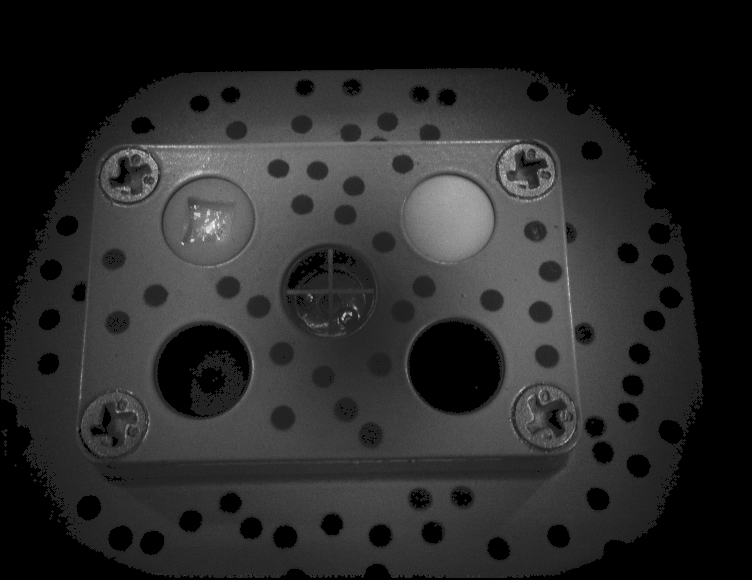
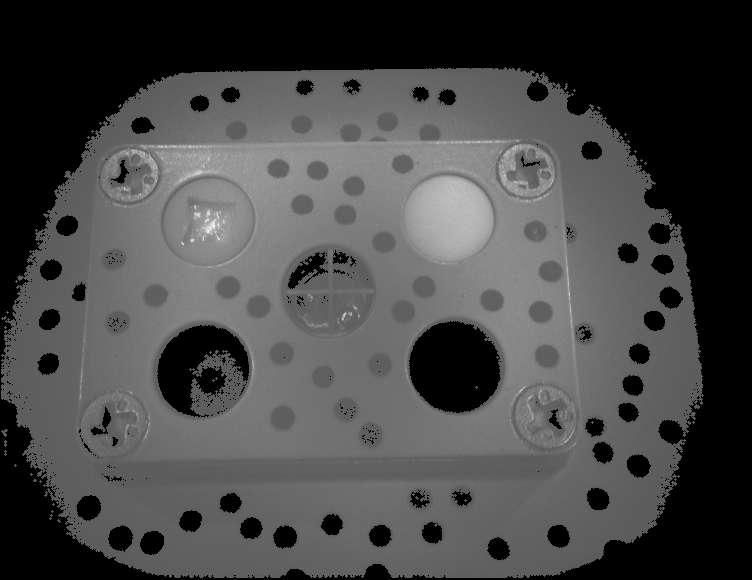
Merged henriks branch with calibration data into meshfromshade

diff --git a/src/normals_to_mesh.py b/src/normals_to_mesh.py
@@ -10,7 +10,7 @@ def depth_to_mesh(
     output_dir: str,
     scale: float = 1.0,
     mask_path: str = None,
-    poisson_depth: int = 7
+    poisson_depth: int = 9
 ):
     """
     Convert a depth map (from photometric stereo) into a 3D mesh and save as .ply and .stl.

diff --git a/src/photometric_stereo.py b/src/photometric_stereo.py
@@ -21,7 +21,7 @@ def build_light_dirs_point(
     r=0.02, h=0.02,
     cam_tilt_deg=(18.0,0.0,0.0),
     cam_offset_rig=(0.0, 0.0, 0.0),
-    z_ref=0.30
+    z_ref=0.10
 ) -> np.ndarray:
     # LED positions in rig frame (N,3)
     led_pos = np.array(
